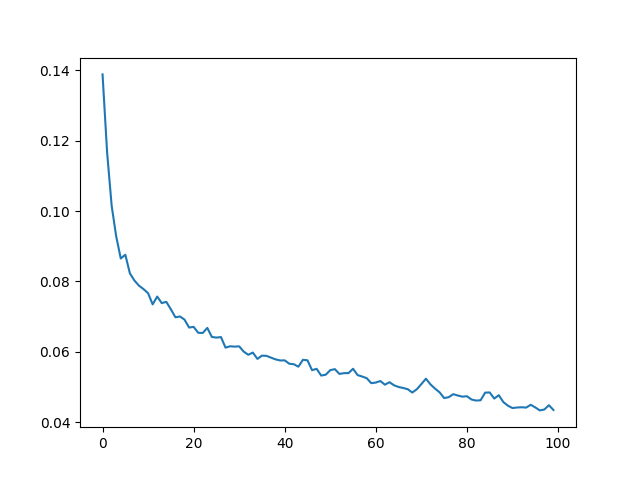
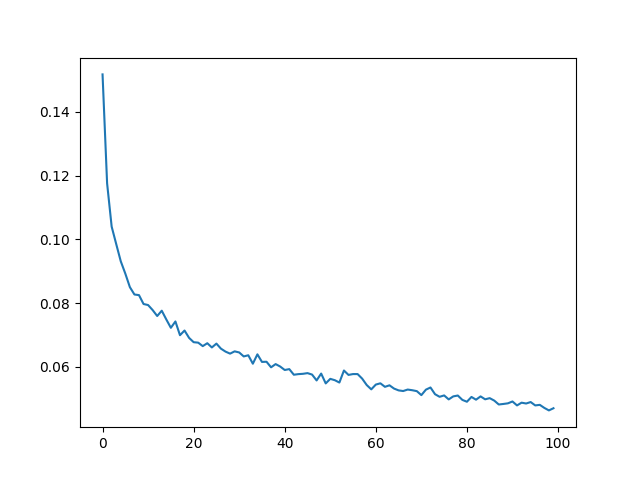
fix: save transformer format

diff --git a/segmentation/01-sam-fine-tuning/fine_tuning.py b/segmentation/01-sam-fine-tuning/fine_tuning.py
@@ -32,7 +32,7 @@ example_mask.save("outputs/example_mask.png")
 # Create pytorch dataset for fine-tuning
 processor = SamProcessor.from_pretrained("facebook/sam-vit-base")
 train_dataset = SAMDataset(dataset=dataset, processor=processor)
-train_dataloader = DataLoader(train_dataset, batch_size=2, shuffle=True) # Convert to torch data loader format
+train_dataloader = DataLoader(train_dataset, batch_size=4, shuffle=True) # Convert to torch data loader format
 
 # Load model
 model = SamModel.from_pretrained("facebook/sam-vit-base")
@@ -76,7 +76,7 @@ for epoch in range(num_epochs):
 
 
 # Save the model
-torch.save(model.state_dict(), "outputs/sam_breast_cancer.pt")
+model.save_pretrained("./sam_breast_cancer")
 
 # Save the loss in figure
 plt.plot(mean_losses)

diff --git a/segmentation/01-sam-fine-tuning/data_loader.py b/segmentation/01-sam-fine-tuning/data_loader.py
@@ -1,4 +1,5 @@
 import numpy as np
+from typing import List
 from torch.utils.data import Dataset
 
 def get_bounding_box(binary_mask):
@@ -17,6 +18,7 @@ def get_bounding_box(binary_mask):
     bbox = [x_min, y_min, x_max, y_max]
 
     return bbox
+
 
 class SAMDataset(Dataset):
     def __init__(self, dataset, processor):
